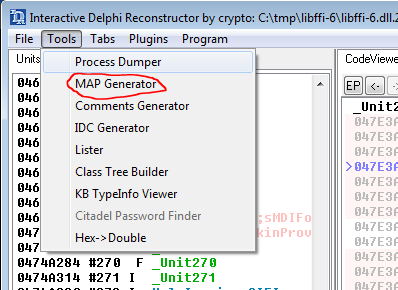
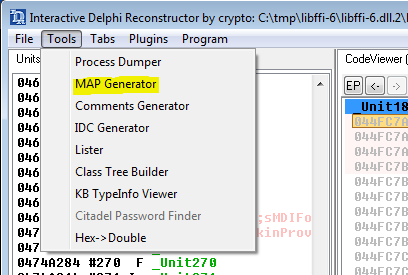
map

diff --git a/README.md b/README.md
@@ -8,7 +8,8 @@ Butcher is a decompiler but also a binary deconstructor, a tool to extract usefu
 
 Let's start with an easy example:
 1. Clone this project, compile it and move to the tutorial directory:
-```
+
+```bash
 sudo apt install git build-essential cmake libcapstone-dev libjsoncpp-dev unzip
 git clone https://github.com/redsnk/butcher
 cd butcher/
@@ -20,11 +21,11 @@ cd tutorial
 
 > zip protected with the password "*infected*"
 
-```
+```bash
 unzip -P infected libffi-6.zip
 ```
 
-> *libffi-6.dll* is a malware called *Grandoreiro*, a tipical Brasilian RAT compiled with **Delphi**
+> *libffi-6.dll* contains a malware called *Grandoreiro*, a tipical Brasilian RAT compiled with **Delphi**
 
 If we examine this malware with [IDR](https://github.com/crypto2011/IDR) we can identify two functions used to decrypt hidden strings:
 
@@ -43,7 +44,7 @@ The **GetSecret1** starts at **044FCB68**:
 
 3. Extract de **GetSecret** function from the malware:
 
-```
+```bash
 ../Butcher -lc -a -m -e0x40b830 "libffi-6.dll" "0x044FCB68" > secret.c
 ```
 
@@ -59,9 +60,9 @@ The **GetSecret1** starts at **044FCB68**:
 > -e0x40b830
 >> Exclude the address 0x40b830 from the analisis, this address is used to create an internal Delphi string that is no necessary in this case.
 
-4. Modify the **main** function at **secret.c** below the "*Insert code here ...*" lines:
+4. Modify the **main** function at **secret.c** below the "*Insert code here ...*" lines with new code:
 
-```
+```C
 int main (int argc, char **argv) {
 struct _cpu c,*cpu;
 
@@ -86,15 +87,16 @@ struct _cpu c,*cpu;
 
 5. Compile the new tool:
 
-```
+```bash
 gcc -I../src/emu/ ../src/emu/butcher_x64.c secret.c -o secret
 ```
 
 6. Execute the new tool:
 
-```
+```bash
 ./secret 5
 ```
+Now we have the secret with index number 5:
 
 > MkIzMjk1QzMwQzRBRjkxNQ==
 
@@ -102,8 +104,11 @@ gcc -I../src/emu/ ../src/emu/butcher_x64.c secret.c -o secret
 
 > *** **Warning, this version only works with Python 3.7, install Python 3.7 if you don't have it** ***
 
-```
-# Install Python 3.7
+```bash
+#
+# If you don't have Python 3.7 install it
+#
+
 sudo apt install libssl-dev libffi-dev
 wget https://www.python.org/ftp/python/3.7.17/Python-3.7.17.tgz
 tar zxf Python-3.7.17.tgz
@@ -116,16 +121,16 @@ cd ..
 ```
 Extract de **GetSecret** function from the malware but as Python source code:
 
-```
+```bash
 ../Butcher -lp -a -m -e0x40b830 "libffi-6.dll" "0x044FCB68" > secret.py
 ```
 
 > -lp
 >> Python source code.
 
-8. Modify the **main** function at **secret.py** below the "*Insert code here ...*" lines:
+8. Modify the **main** function at **secret.py** below the "*Insert code here ...*" with this lines:
 
-```
+```Python
 def main():
     [ ... ]
     cpu._rsp = 0x1b800
@@ -137,7 +142,7 @@ def main():
     # ...
     func_0x44fcb68(cpu,0)
     # Insert code here ...
-    str = cpu.get_unicode_ptr(cpu._edx)
+    str = cpu.get_unicode_ptr(cpu._edx,0)
     print(str)
     # ...
     return 0
@@ -148,11 +153,13 @@ if __name__=="__main__":
 
 9. Execute the new **Python** tool:
 
-```
+```bash
 sudo pip3.7 install goto-statement
 ln -s ../src/emu/butcher_x64.py .
 python3.7 secret.py 5
 ```
+
+The same output but with Python source code:
 
 > MkIzMjk1QzMwQzRBRjkxNQ==
 
@@ -190,7 +197,7 @@ Now we must patch some code inside the newly generated **decrypt.c**.
 
 ### __GetMem:
 
-```
+```C
 void __GetMem(struct _cpu *cpu) {
     // ---
     // _eax = size